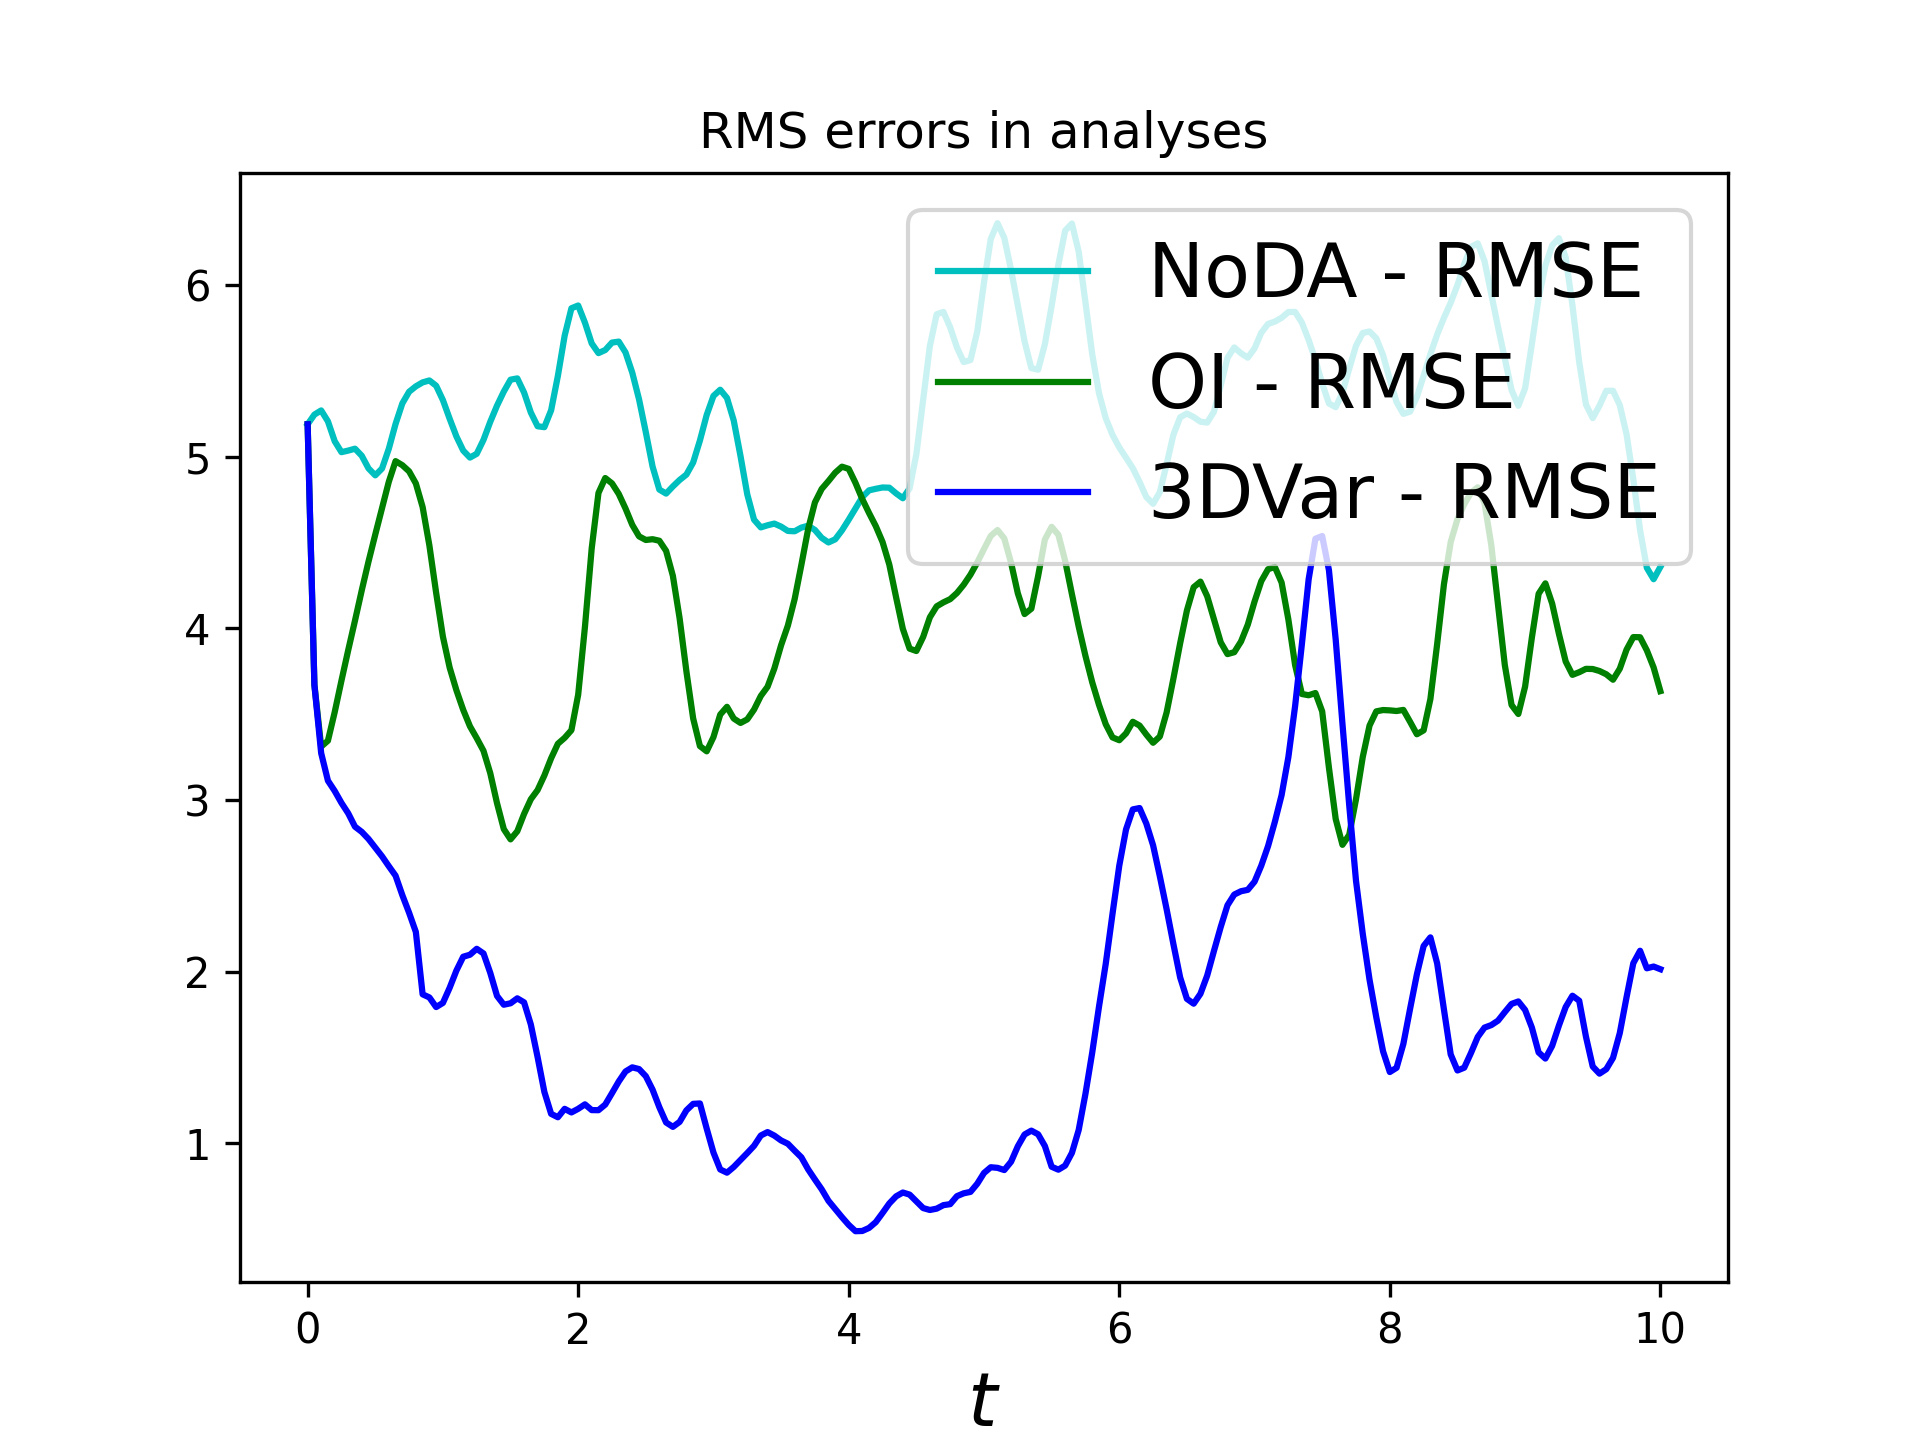
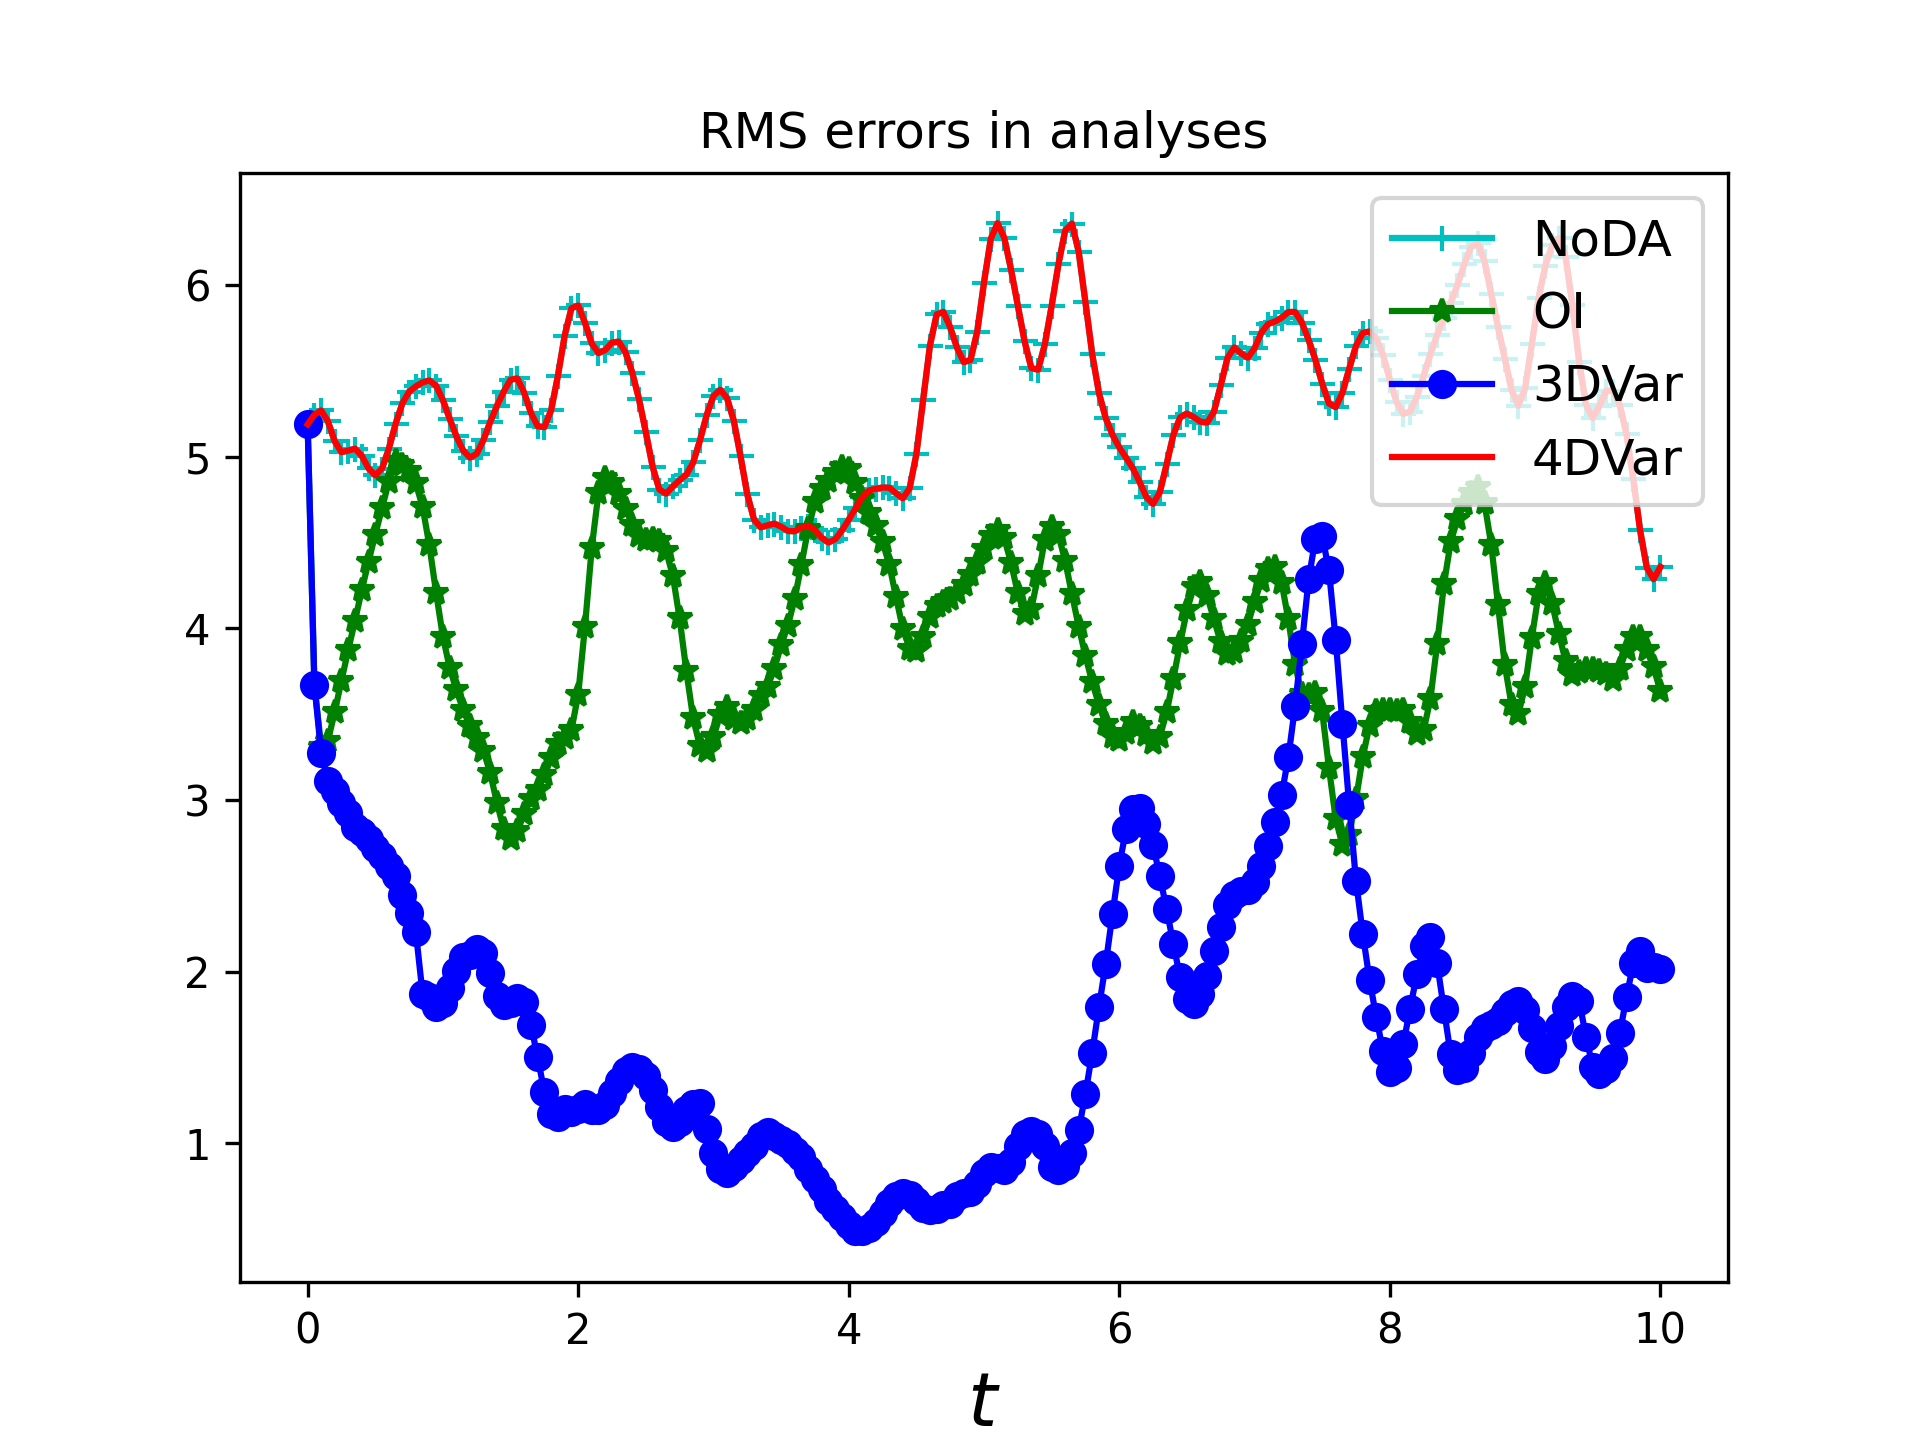
report failed

diff --git a/plot.py b/plot.py
@@ -6,7 +6,6 @@ Read:
   x_a.txt
 """
 import numpy as np
-from numpy.core.fromnumeric import shape
 from settings import *
 import matplotlib.pyplot as plt
 
@@ -22,20 +21,20 @@ def RMSE(x_a, x_t):
     return np.sqrt(np.mean((x_a-x_t)**2))
 
 # # Plot time series of a single grid point
-# pt = 3
-# plt.figure()
-# plt.plot(np.arange(nT+1) * dT, x_t_save[:,pt-1], 'k+--', label=r'$x^t_{' + str(pt) + '}$')
-# plt.plot(np.arange(nT+1) * dT, x_a_save[:,pt-1], 'co-' , label=r'$NoDA x^a_{' + str(pt) + '}$')
-# plt.plot(np.arange(nT+1) * dT, x_a_oi[:,pt-1], 'go-' , label=r'$OI x^a_{' + str(pt) + '}$')
-# plt.plot(np.arange(nT+1) * dT, x_a_3d[:,pt-1], 'bo-' , label=r'$3DVar x^a_{' + str(pt) + '}$')
-# # plt.plot(np.arange(nT+1) * dT, x_a_4d[:,pt-1], 'ro-' , label=r'$4DVar x^a_{' + str(pt) + '}$')
-# plt.xlabel(r'$t$', size=18)
-# plt.ylabel(r'$x$', size=18)
-# plt.title(r'Time series of $x_{' + str(pt) + '}$', size=20)
-# plt.legend(loc='upper right', numpoints=1, prop={'size':18})
-# plt.savefig('timeseries.png', dpi=200)
-# plt.show()
-# plt.clf()
+pt = 3
+plt.figure()
+plt.plot(np.arange(nT+1) * dT, x_t_save[:,pt-1], 'k+--', label=r'$x^t_{' + str(pt) + '}$')
+plt.plot(np.arange(nT+1) * dT, x_a_save[:,pt-1], 'c+-' , label=r'$NoDA x^a_{' + str(pt) + '}$')
+plt.plot(np.arange(nT+1) * dT, x_a_oi[:,pt-1], 'g*-' , label=r'$OI x^a_{' + str(pt) + '}$')
+plt.plot(np.arange(nT+1) * dT, x_a_3d[:,pt-1], 'bo-' , label=r'$3DVar x^a_{' + str(pt) + '}$')
+plt.plot(np.arange(nT+1) * dT, x_a_4d[:,pt-1], 'r' , label=r'$4DVar x^a_{' + str(pt) + '}$')
+plt.xlabel(r'$t$', size=18)
+plt.ylabel(r'$x$', size=18)
+plt.title(r'Time series of $x_{' + str(pt) + '}$', size=20)
+plt.legend(loc='upper right', numpoints=1, prop={'size':12})
+plt.savefig('timeseries.png', dpi=200)
+plt.show()
+plt.clf()
 
 # Plot time series of RMSE
 T = len(x_t_save)
@@ -48,14 +47,39 @@ for i in range(T):
     rmse_oi.append(RMSE(x_a_oi[i], x_t_save[i]))
     rmse_3d.append(RMSE(x_a_3d[i], x_t_save[i]))
     rmse_4d.append(RMSE(x_a_4d[i], x_t_save[i]))
-# plt.figure()
-plt.plot(np.arange(nT+1) * dT, rmse_no, 'c', label='NoDA - RMSE')
-plt.plot(np.arange(nT+1) * dT, rmse_oi, 'g', label='OI - RMSE')
-plt.plot(np.arange(nT+1) * dT, rmse_3d, 'b' , label='3DVar - RMSE')
-# plt.plot(np.arange(nT+1) * dT, rmse_4d, 'r' , label='4DVar - RMSE')
+
+plt.plot(np.arange(nT+1) * dT, rmse_no, 'c+-', label='NoDA')
+plt.plot(np.arange(nT+1) * dT, rmse_oi, 'g*-', label='OI')
+plt.plot(np.arange(nT+1) * dT, rmse_3d, 'bo-' , label='3DVar')
+plt.plot(np.arange(nT+1) * dT, rmse_4d, 'r' , label='4DVar')
 plt.xlabel(r'$t$', size=18)
 # plt.ylabel(r'$x$', size=18)
 plt.title('RMS errors in analyses')
-plt.legend(loc='upper right', numpoints=1, prop={'size':18})
+plt.legend(loc='upper right', numpoints=1, prop={'size':12})
 plt.savefig('RMSE.png', dpi=300)
+plt.show()
+
+
+# Plot time series of mean bias
+def mean_bias(x_a, x_t):
+    return np.mean(x_a-x_t)
+mb_no = []
+mb_oi = []
+mb_3d = []
+mb_4d = []
+for i in range(T):
+    mb_no.append(mean_bias(x_a_save[i], x_t_save[i]))
+    mb_oi.append(mean_bias(x_a_oi[i], x_t_save[i]))
+    mb_3d.append(mean_bias(x_a_3d[i], x_t_save[i]))
+    mb_4d.append(mean_bias(x_a_4d[i], x_t_save[i]))
+
+plt.plot(np.arange(nT+1) * dT, mb_no, 'c+-', label='NoDA')
+plt.plot(np.arange(nT+1) * dT, mb_oi, 'g*-', label='OI')
+plt.plot(np.arange(nT+1) * dT, mb_3d, 'bo-' , label='3DVar')
+plt.plot(np.arange(nT+1) * dT, mb_4d, 'r' , label='4DVar')
+plt.xlabel(r'$t$', size=18)
+# plt.ylabel(r'$x$', size=18)
+plt.title('mean bias in analyses')
+plt.legend(loc='upper right', numpoints=1, prop={'size':12})
+plt.savefig('mean-bias.png', dpi=300)
 plt.show()

diff --git a/das_4dvar.py b/das_4dvar.py
@@ -43,11 +43,10 @@ for i in range(N):
     pass
 
 # initial background error covariance
-R = identity(N, dtype='f8')
-for i in range(N):
-    e = y_o_save[0] - x_a_save[0]
-    R[i, i] = e.dot(e.T)
-    pass
+mu = np.mean(y_o_save[0], 0)
+e = np.reshape(y_o_save[0] - mu, (N, 1))
+co = np.cov(e@e.T)
+R = np.diag(np.diagonal(co))
 B_init = R
 
 tt = 1
@@ -84,7 +83,7 @@ while tt <= nT:
     x_b = x_b_save[tt].transpose()
 
     # observation
-    y_o = y_o_save[tt].transpose()
+    y_o = np.nan_to_num(y_o_save[to].transpose())
 
     # innovation
 
@@ -93,11 +92,13 @@ while tt <= nT:
     # assume analysis as truth
     R = []
     for j in range(tos, to):
-        Rj = identity(N, dtype='f8')
-        for i in range(N):
-            e = np.nan_to_num(y_o_save[tts] - x_a_save[tts])
-            Rj[i, i] = e.dot(e.T)
-            pass
+        y_o = np.nan_to_num(y_o_save[j].transpose())
+        mu = np.mean(y_o, 0)
+        e = np.reshape(y_o - mu, (N, 1))
+        co = np.cov(e@e.T)
+        Rj = np.diag(np.diagonal(co))
+        if np.linalg.det(Rj) == 0.0:
+            raise ValueError('det = 0 when j = {}'.format(j))
         R.append(Rj)
         pass
 

diff --git a/das_oi.py b/das_oi.py
@@ -94,10 +94,10 @@ while tt <= nT:
     #--------------
 
     # background
-    x_b = x_b_save[tt].T
+    x_b = np.reshape(x_b_save[tt], (N, 1))
 
     # observation
-    y_o = y_o_save[tt].T
+    y_o = np.reshape(y_o_save[tt], (N, 1))
 
     # innovation
     y_b = H@x_b
@@ -109,12 +109,12 @@ while tt <= nT:
     e = np.reshape(y_o_save[tts] - mu, (N, 1))
     co = np.cov(e@e.T)
     R = np.diag(np.diagonal(co))
-    # B = R
     Rp = H@B@H.T + R
     K = B@H.T@inv(Rp)
-    x_a = x_b + np.reshape(K@d.T, np.shape(x_b))
+    x_a = x_b + K@d
 
-    x_a_save = np.vstack((x_a_save, x_a))
+
+    x_a_save = np.vstack((x_a_save, x_a.T))
     tt += 1
 
 # save background and analysis data

diff --git a/src/main.rs b/src/main.rs
@@ -92,7 +92,7 @@ fn raw_truth_sd(truth: &Truth) -> f64 {
 }
 
 fn full_process(truth: Truth, sd: f64) -> Truth {
-    let normal = Normal::new(0.0, sd * 0.1).unwrap();
+    let normal = Normal::new(0.0, sd * 0.05).unwrap();
     let mut rng = rand::thread_rng();
     let err_tmp: Vec<f64> = normal
         .sample_iter(&mut rng)

diff --git a/scatter.py b/scatter.py
@@ -1,0 +1,10 @@
+#!/usr/bin/env python3
+
+import numpy as np
+from settings import *
+import matplotlib.pyplot as plt
+
+y_o_save = np.genfromtxt('y_o.txt')
+plt.figure()
+plt.scatter(y_o_save[:, 0], y_o_save[:, 1])
+plt.show()
